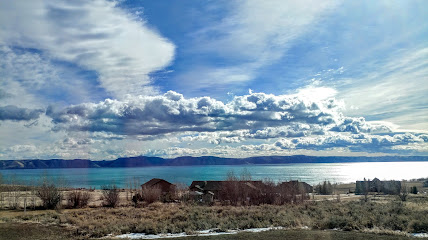
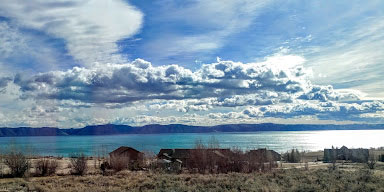
images update

diff --git a/lesson11/sodasprings.html b/lesson11/sodasprings.html
@@ -48,8 +48,8 @@
         <picture class="sodatown">  
         <source srcset="images/sodasprings.jpg" media="(max-width:399px)">
         <source srcset="images/heromedium.jpg" media="(max-width:799px)">
-        <source srcset="images/herolarge.jpg" media="(min-width:899px)">
-        <img src="images/sodasprings.jpg" alt="City view of Soda Springs, Idaho" width="1100" height="500">
+        <source srcset="images/sodasprings3.jpg" media="(min-width:899px)">
+        <img src="images/sodasprings3.jpg" alt="City view of Soda Springs, Idaho" width="1100" height="500">
         </picture>
         
 

diff --git a/lesson11/fishhaven.html b/lesson11/fishhaven.html
@@ -48,8 +48,8 @@
         <picture class="fishtown">  
         <source srcset="images/herosmall.jpg" media="(max-width:399px)">
         <source srcset="images/heromedium.jpg" media="(max-width:799px)">
-        <source srcset="images/herolarge.jpg" media="(min-width:899px)">
-        <img src="images/originalhero.jpeg" alt="City view of Fish Haven, Idaho" width="1100" height="500">
+        <source srcset="images/fishhavenhero.jpg" media="(min-width:899px)">
+        <img src="images/fishhavenhero.jpg" alt="City view of Fish Haven, Idaho" width="1100" height="500">
         </picture>
         
 
